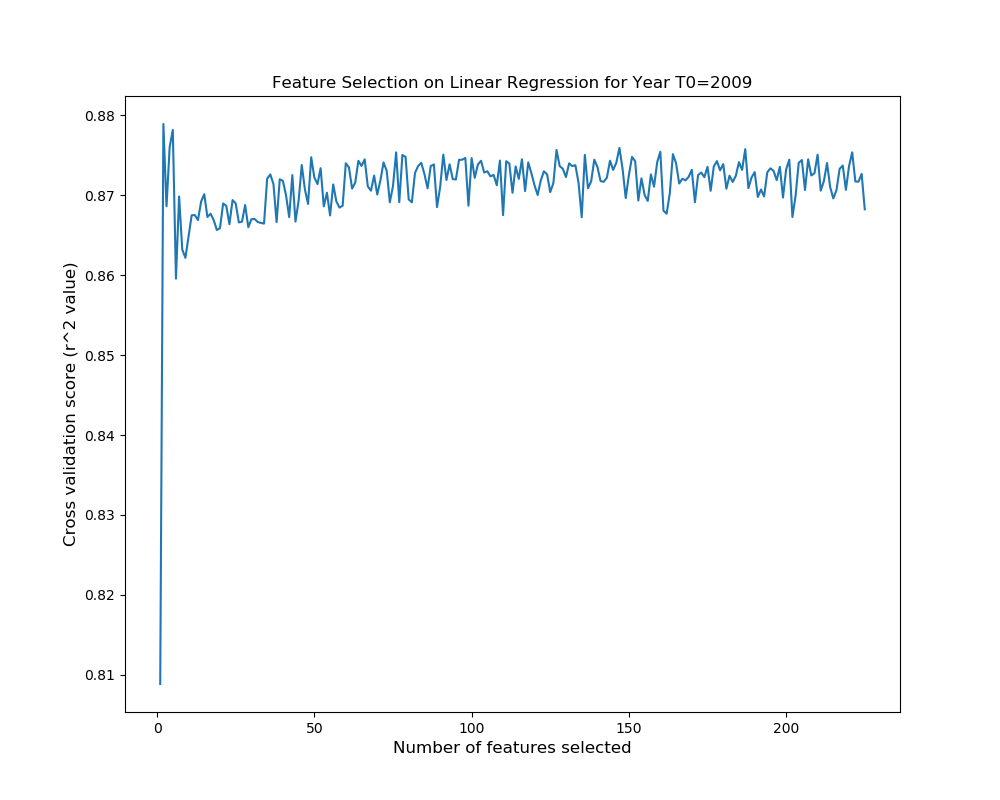
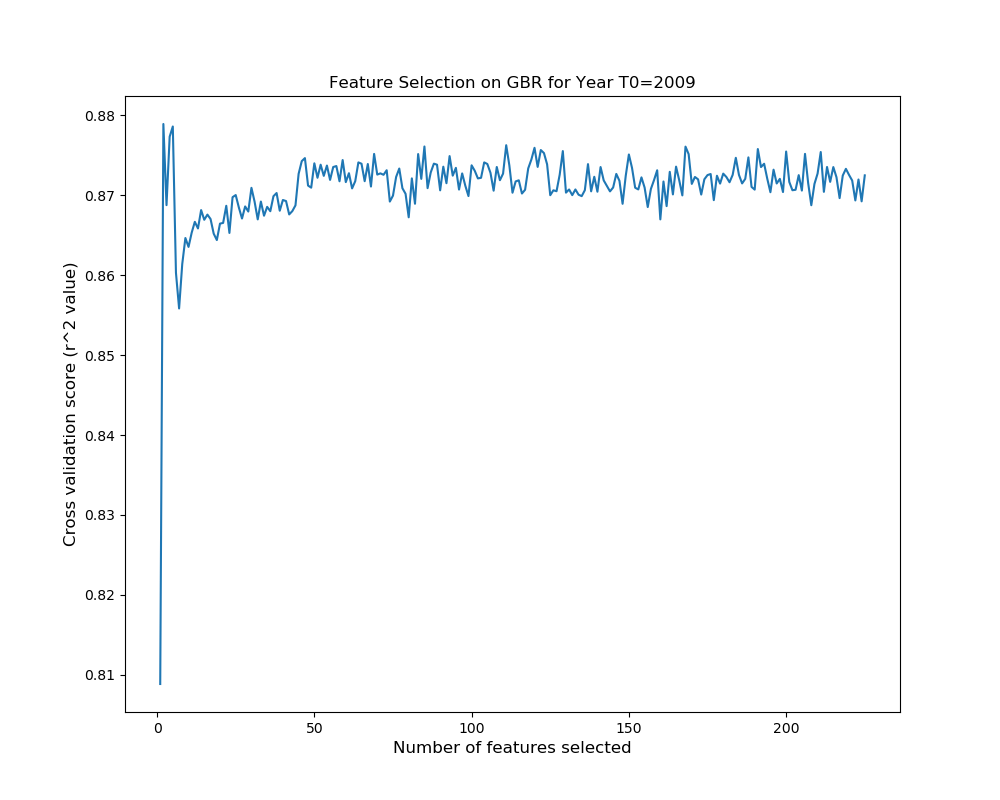
last change from february. should work

Changed region(s): [[0.155, 0.1875, 0.868, 0.375], [0.279, 0.0938, 0.744, 0.125]]

diff --git a/feature_selection_all_features/feature_selection_gbr_all_data.py b/feature_selection_all_features/feature_selection_gbr_all_data.py
@@ -6,21 +6,33 @@ import sklearn.feature_selection
 from sklearn.ensemble import GradientBoostingRegressor
 import sklearn.metrics
 
+# Builds a GBR to predict the number of cases per person in the 6th year,
+# using 5 years of past data as features.
+# Ex: if year parameter is 2006, the years 2006-2010 are used to build model
+#     and the number of cases per person in 2011 is predicted.
+
+# The code performs 5-fold cross validation, calculates average r^2 and MSE,
+# creates and saves a plot of cross validation results (actual cases s. predicted cases),
+# finds the top 20 most important features, performs feature selection,
+# and creates a GBR with the selected features.
+
+# Plots are saved in all_features_dfs directory.
 
 def create_model(year):
     if year < 2006 or year > 2011:
         print("year must be [2006, 2011]")
         return
 
-    print()
-    print()
-    print("-------------- YEAR " + str(year) + " --------------")
+    print("------ YEAR " + str(year) + " ------")
 
+    # load data
     file = '../all_features_dfs/' + str(year) + 'all_features_cpp.xlsx'
     full_df = pd.read_excel(file, dtype=str)
     full_df = full_df.astype(float)
     full_df = full_df.drop('fips', axis=1)
 
+    # we will predict cases_per_person in 6th year [target_t5]
+    # drop this variable from data frame so that it is not used in predictions
     x = full_df.drop('target_t5', axis=1)
     y = full_df.target_t5
 
@@ -52,6 +64,7 @@ def create_model(year):
     cv_models = sklearn.model_selection.cross_validate(GradientBoostingRegressor(max_depth=2), x, y, cv=num_folds, return_estimator=True)
     cross_val_predict_data = sklearn.model_selection.cross_val_predict(GradientBoostingRegressor(max_depth=2), x, y, cv=num_folds)
 
+    # plot the cross validation results (actual number of cases per person vs. predicted cases per person)
     plt.figure(figsize=(10,8))
     plt.scatter(y, cross_val_predict_data)
     plt.scatter(y, cross_val_predict_data)
@@ -60,59 +73,64 @@ def create_model(year):
     plt.xlabel("Actual cases")
     plt.ylabel("Predicted cases")
     plt.title("Cross Validation for Actual cases per person vs. predicted cases per person in t0=" + str(year))
-    # plt.show()
-    plt.savefig("../all_feature_figures2/gbr/gbr_" + str(year) + "_cv_no_feature_selection.png")
+    plt.savefig("../all_feature_figures/gbr/gbr_" + str(year) + "_cv_no_feature_selection.png")
     plt.clf()
 
     # ------ create array of 20 top features ------
-
     feature_coefficients_arr = np.array([m.feature_importances_ for m in cv_models["estimator"]])
     feature_coefficients_df = pd.DataFrame(feature_coefficients_arr, columns=list(x))
     feature_coefficients_df = feature_coefficients_df.agg(["min","median","max"], axis=0).transpose()
     feature_coefficients_df = feature_coefficients_df.reindex(feature_coefficients_df.median(axis=1).abs().sort_values().index)
 
-    top_20_features = feature_coefficients_df.tail(20)
+    top_20_features = feature_coefficients_df.tail(20)  # pull the 20 most important features
 
     print()
     print("Top 20 features")
-    print(top_20_features)
+    print(top_20_features)  # output the top features
 
     # ------ feature selection ------
     rfecv = sklearn.feature_selection.RFECV(estimator=GradientBoostingRegressor(max_depth=2), step=1, cv=5,
                   scoring='r2', n_jobs=-1)
-    rfecv.fit(x,y)
+    rfecv.fit(x, y)
     fig, ax = plt.subplots(1,1,figsize=(10,8))
+
+    # create a plot with the features of feature selection
+    # the plot examines performance of the GBR based on r^2 depending on the number of features selected
     plt.plot(range(1, len(rfecv.grid_scores_) + 1), rfecv.grid_scores_)
     plt.xlabel("Number of features selected",fontsize=12)
     plt.ylabel("Cross validation score (r^2 value)",fontsize=12)
     plt.title("Feature Selection on GBR for Year T0=" + str(year))
     # plt.show()
-    plt.savefig("../all_feature_figures2/gbr/gbr_" + str(year) + "_feature_selection_plot.png")
+    plt.savefig("../all_feature_figures/gbr/gbr_" + str(year) + "_feature_selection_plot.png")
     plt.clf()
 
     # ------------- Gradient Boosted Regression with only top features ----------------------
-
     num_top_features = 20
     remove_features = feature_coefficients_df.head(75 - num_top_features)
     for f in list(remove_features.index):
         x = x.drop([f], axis=1)
-    x_train, x_test, y_train, y_test = sklearn.model_selection.train_test_split(x, y, test_size=0.2,
-                                                                                random_state=5)
+    x_train, x_test, y_train, y_test = sklearn.model_selection.train_test_split(x, y, test_size=0.2, random_state=5)
+
+    # create GBR with only top features
     lm = GradientBoostingRegressor(max_depth=2)
     lm.fit(x_train, y_train)
     pred_train = lm.predict(x_train)
     pred_test = lm.predict(x_test)
 
+    # Determine r^2 for GBR on top 20 features
     r2 = sklearn.metrics.r2_score(y_test, pred_test)
     print("r2 for top 20 features (no CV): " + str(r2))
 
+    # Plot the performance of GBR using top 20 features
+    # Plot compares actual cases per person and predicted cases per person for each county
     plt.scatter(y_test, pred_test)
     plt.xlabel("Actual Cases Per Person")
     plt.ylabel("Predicted Cases Per Person")
     plt.title("Gradient Boosted Regression with Top Features for Year T0=" + str(year))
-    # plt.show()
-    plt.savefig("../all_feature_figures2/gbr/gbr_" + str(year) + "_no_cv_only_top_features.png")
+    plt.savefig("../all_feature_figures/gbr/gbr_" + str(year) + "_no_cv_only_top_features.png")
     plt.clf()
+
+    print()
 
 
 for i in range(2006, 2012):
